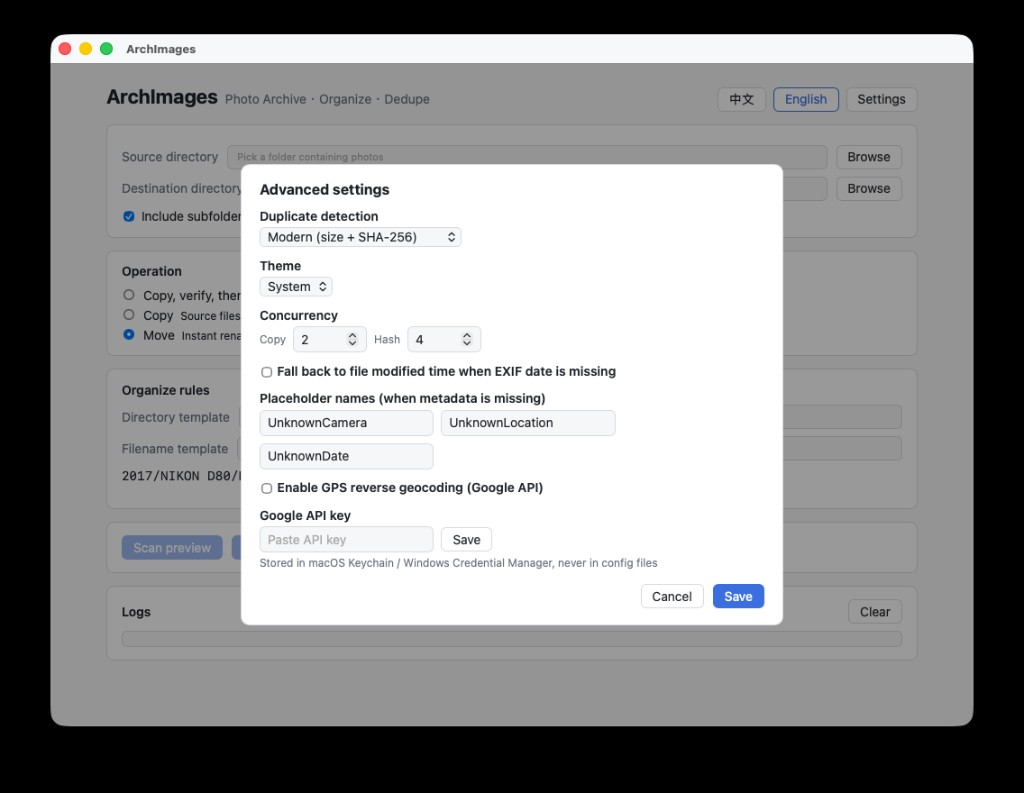
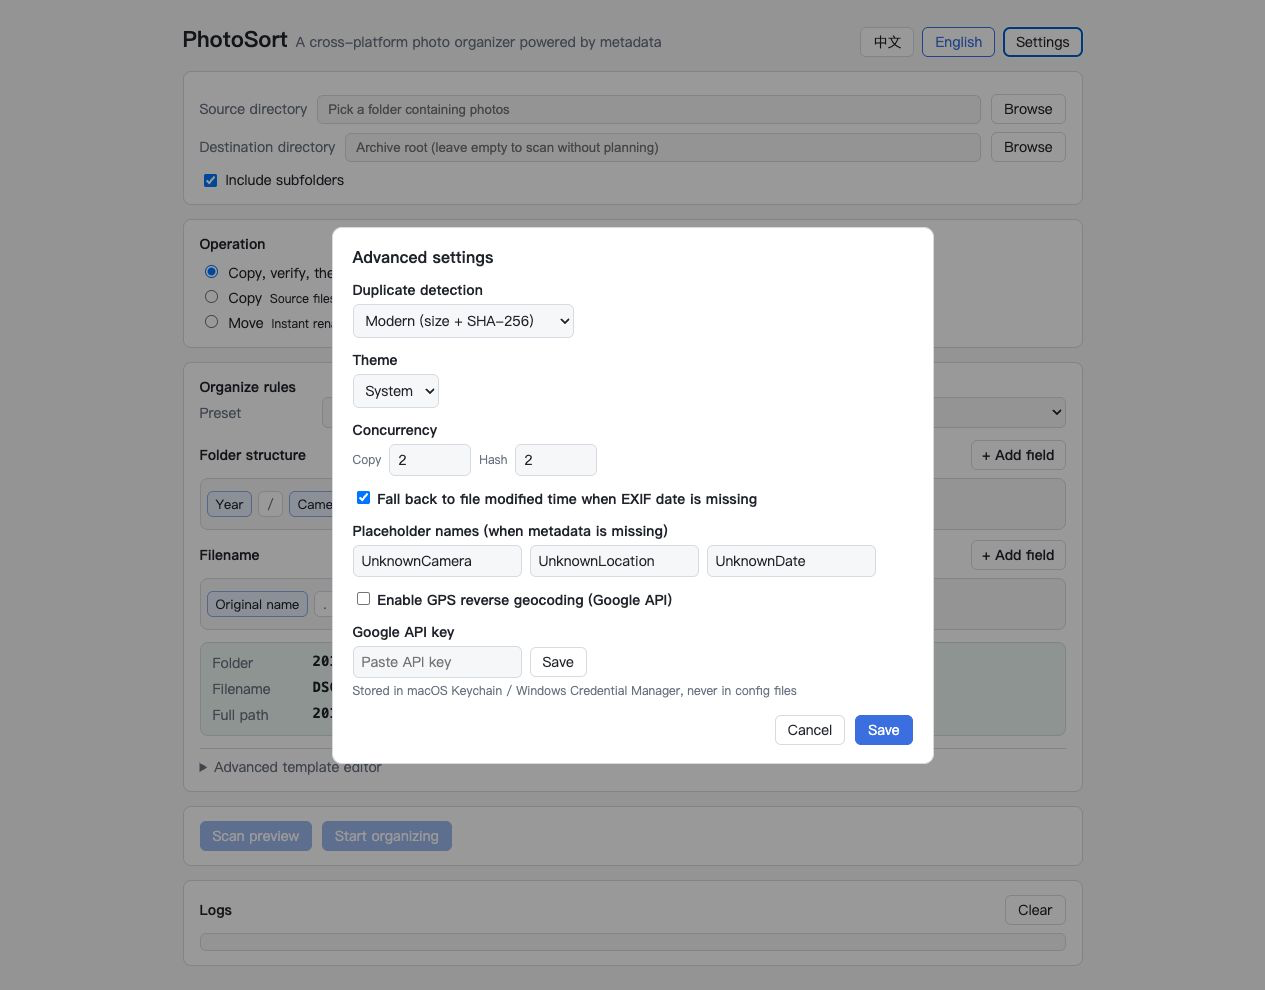
chore: prepare v1.0.2-beta release

diff --git a/archimages/src/services/tauri.ts b/archimages/src/services/tauri.ts
@@ -12,19 +12,26 @@ import type { TemplatePreview, TemplatePreviewRequest } from "../types/template"
  * 组件与 store 不直接调用 invoke / listen。
  */
 export async function ping(): Promise<string> {
+  if (!isTauriRuntime()) return "pong";
   return invoke<string>("ping");
 }
 
 export async function getSettings(): Promise<AppSettings> {
+  if (!isTauriRuntime()) return defaultBrowserSettings();
   return invoke<AppSettings>("get_settings");
 }
 
 export async function saveSettings(settings: AppSettings): Promise<void> {
+  if (!isTauriRuntime()) {
+    localStorage.setItem("photosort.settings", JSON.stringify(settings));
+    return;
+  }
   return invoke<void>("save_settings", { settings });
 }
 
 /** 弹出系统目录选择器；用户取消时返回 null。 */
 export async function pickDirectory(): Promise<string | null> {
+  if (!isTauriRuntime()) return null;
   const selected = await open({ directory: true, multiple: false });
   return typeof selected === "string" ? selected : null;
 }
@@ -64,6 +71,41 @@ export async function templatePreview(
 
 function isTauriRuntime(): boolean {
   return "__TAURI_INTERNALS__" in window || "__TAURI__" in window;
+}
+
+function defaultBrowserSettings(): AppSettings {
+  const stored = localStorage.getItem("photosort.settings");
+  if (stored) {
+    try {
+      return JSON.parse(stored) as AppSettings;
+    } catch {
+      localStorage.removeItem("photosort.settings");
+    }
+  }
+
+  return {
+    sourceDirectory: null,
+    destinationDirectory: null,
+    includeSubfolders: true,
+    operationMode: "copyVerifyDelete",
+    directoryTemplate: "{yyyy}/{camera_model}",
+    filenameTemplate: "{original_name}.{extension}",
+    duplicateMode: "modern",
+    gpsEnabled: false,
+    gpsPathLevel: "city",
+    gpsRoundPrecision: 4,
+    gpsNoApiMode: "unknownLocation",
+    metadataFallback: {
+      useModifiedTime: true,
+      unknownCamera: "UnknownCamera",
+      unknownLocation: "UnknownLocation",
+      unknownDate: "UnknownDate",
+    },
+    maxHashWorkers: 2,
+    maxCopyWorkers: 2,
+    theme: "system",
+    language: "zh-CN",
+  };
 }
 
 const sampleValues: Record<string, string> = {
@@ -138,6 +180,7 @@ export function onOrganizeProgress(
 
 /** 查询上次异常退出留下的未完成任务。 */
 export async function pendingRecoveryJobs(): Promise<PendingJobSummary[]> {
+  if (!isTauriRuntime()) return [];
   return invoke<PendingJobSummary[]>("pending_recovery_jobs");
 }
 
@@ -158,6 +201,7 @@ export async function clearGoogleApiKey(): Promise<void> {
 
 /** 查询是否已配置 API Key（不返回 Key 本身）。 */
 export async function hasGoogleApiKey(): Promise<boolean> {
+  if (!isTauriRuntime()) return false;
   return invoke<boolean>("has_google_api_key");
 }
 
